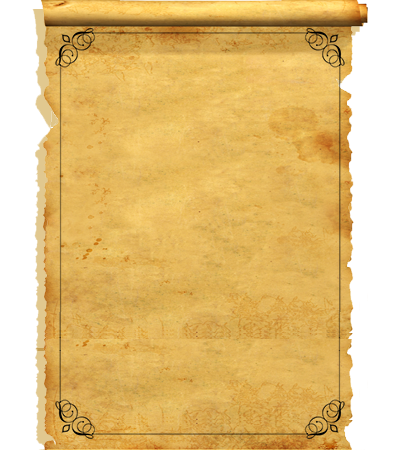
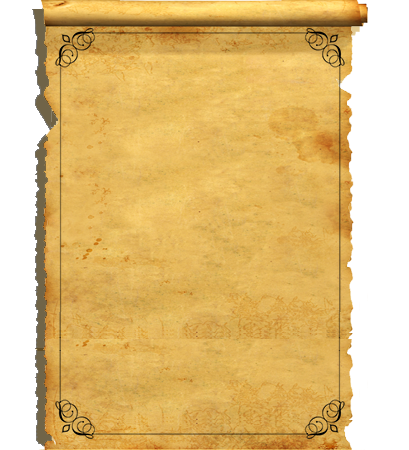
ui updated

Changed region(s): [[0.0587, 0.0, 0.1467, 0.9956]]

diff --git a/src/views/Lottery/NextDrawPage.tsx b/src/views/Lottery/NextDrawPage.tsx
@@ -46,14 +46,11 @@ const NextDrawPage: React.FC = () => {
   return (
     <>
       <Cards>
+        <div style={{gridColumn: "span 1"}}> </div>
         <div>
           <TotalPrizesCard />
         </div>
-        <div>
-          <HowItWorks />
-          {/* legacy page content */}
-          <WinningNumbers />
-        </div>
+        <div style={{gridColumn: "span 2"}}> </div>
         <SecondCardColumnWrapper isAWin={isAWin} style={{backgroundImage:'url(/images/lotteryback.png)',backgroundSize: '100% 100%'}}>
           {!account ? (
             <UnlockWalletCard />
@@ -64,6 +61,16 @@ const NextDrawPage: React.FC = () => {
             </>
           )}
         </SecondCardColumnWrapper>
+        <div style={{gridColumn: "span 1"}}> </div>
+      </Cards>
+      <Cards>
+        <div> </div>
+        <div>
+          <HowItWorks />
+          {/* legacy page content */}
+          <WinningNumbers />
+        </div>
+        <div> </div>
       </Cards>
     </>
   )

diff --git a/src/views/Farms/components/FarmCard/StakeAction.tsx b/src/views/Farms/components/FarmCard/StakeAction.tsx
@@ -53,7 +53,7 @@ const StakeAction: React.FC<FarmCardActionsProps> = ({ stakedBalance, tokenBalan
 
   return (
     <Flex justifyContent="space-between" alignItems="center">
-      <Heading color={rawStakedBalance === 0 ? 'textDisabled' : 'text'}>{displayBalance}</Heading>
+      <Heading color={rawStakedBalance === 0 ? 'textDisabled' : 'primary'}>{displayBalance}</Heading>
       {renderStakingButtons()}
     </Flex>
   )

diff --git a/src/components/layout/Page.tsx b/src/components/layout/Page.tsx
@@ -5,8 +5,9 @@ const Page = styled(Container)`
   margin-top: -20px;
   padding-top: 16px;
   padding-bottom: 16px;
-  background-size: auto 100%;
-  background-position: right;
+  background-size: auto 100%; 
+  background-attachment: fixed;
+  background-position: center;
   min-height: calc(100vh - 300px);
 
   ${({ theme }) => theme.mediaQueries.sm} {
